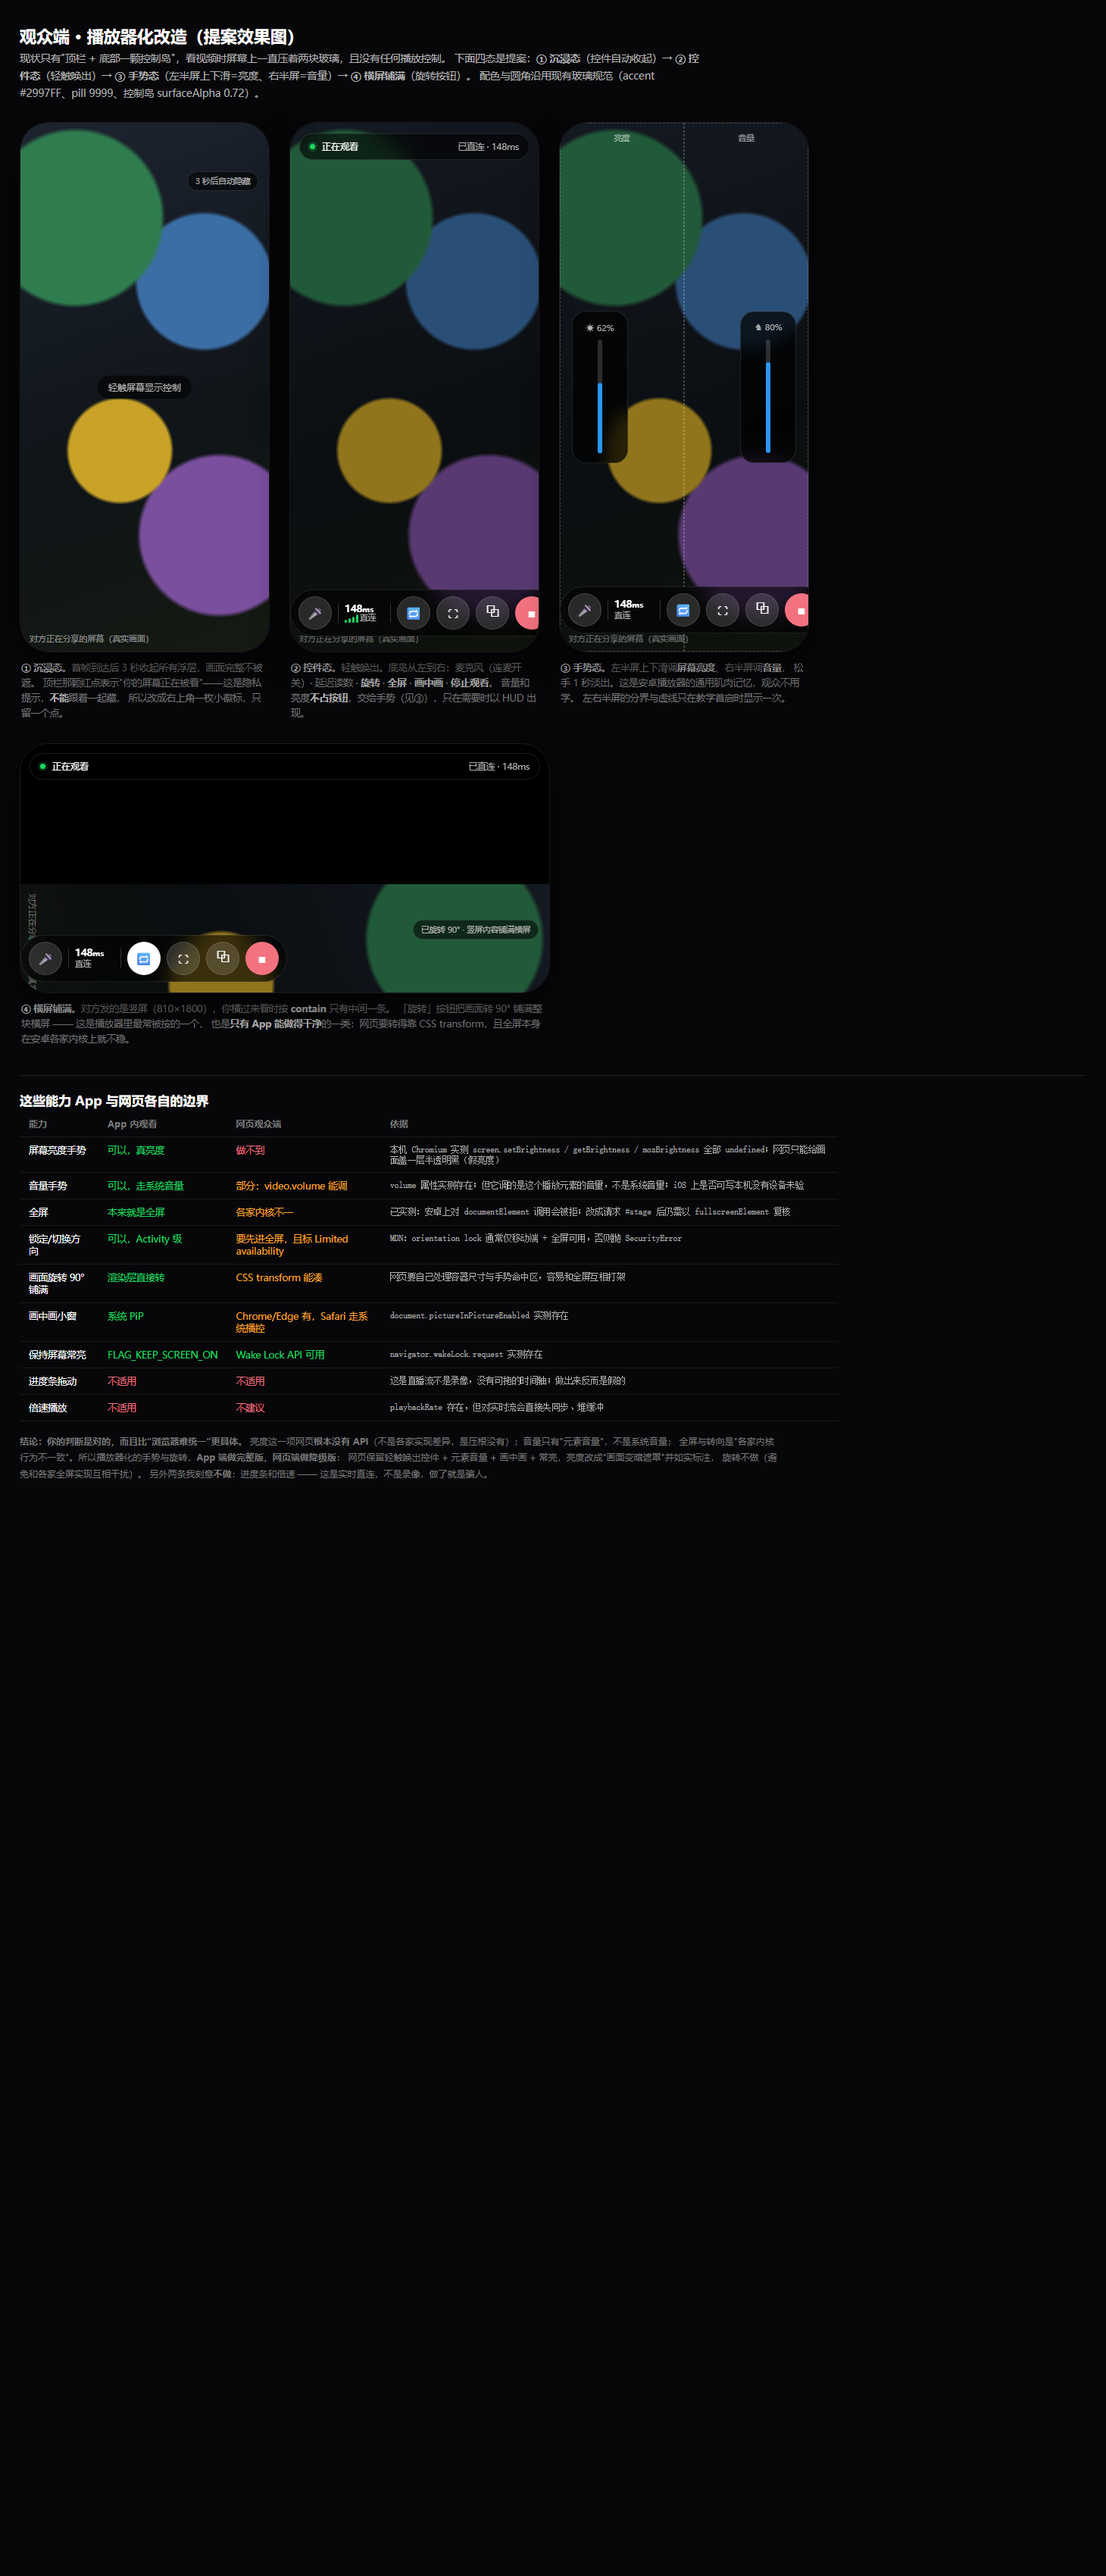
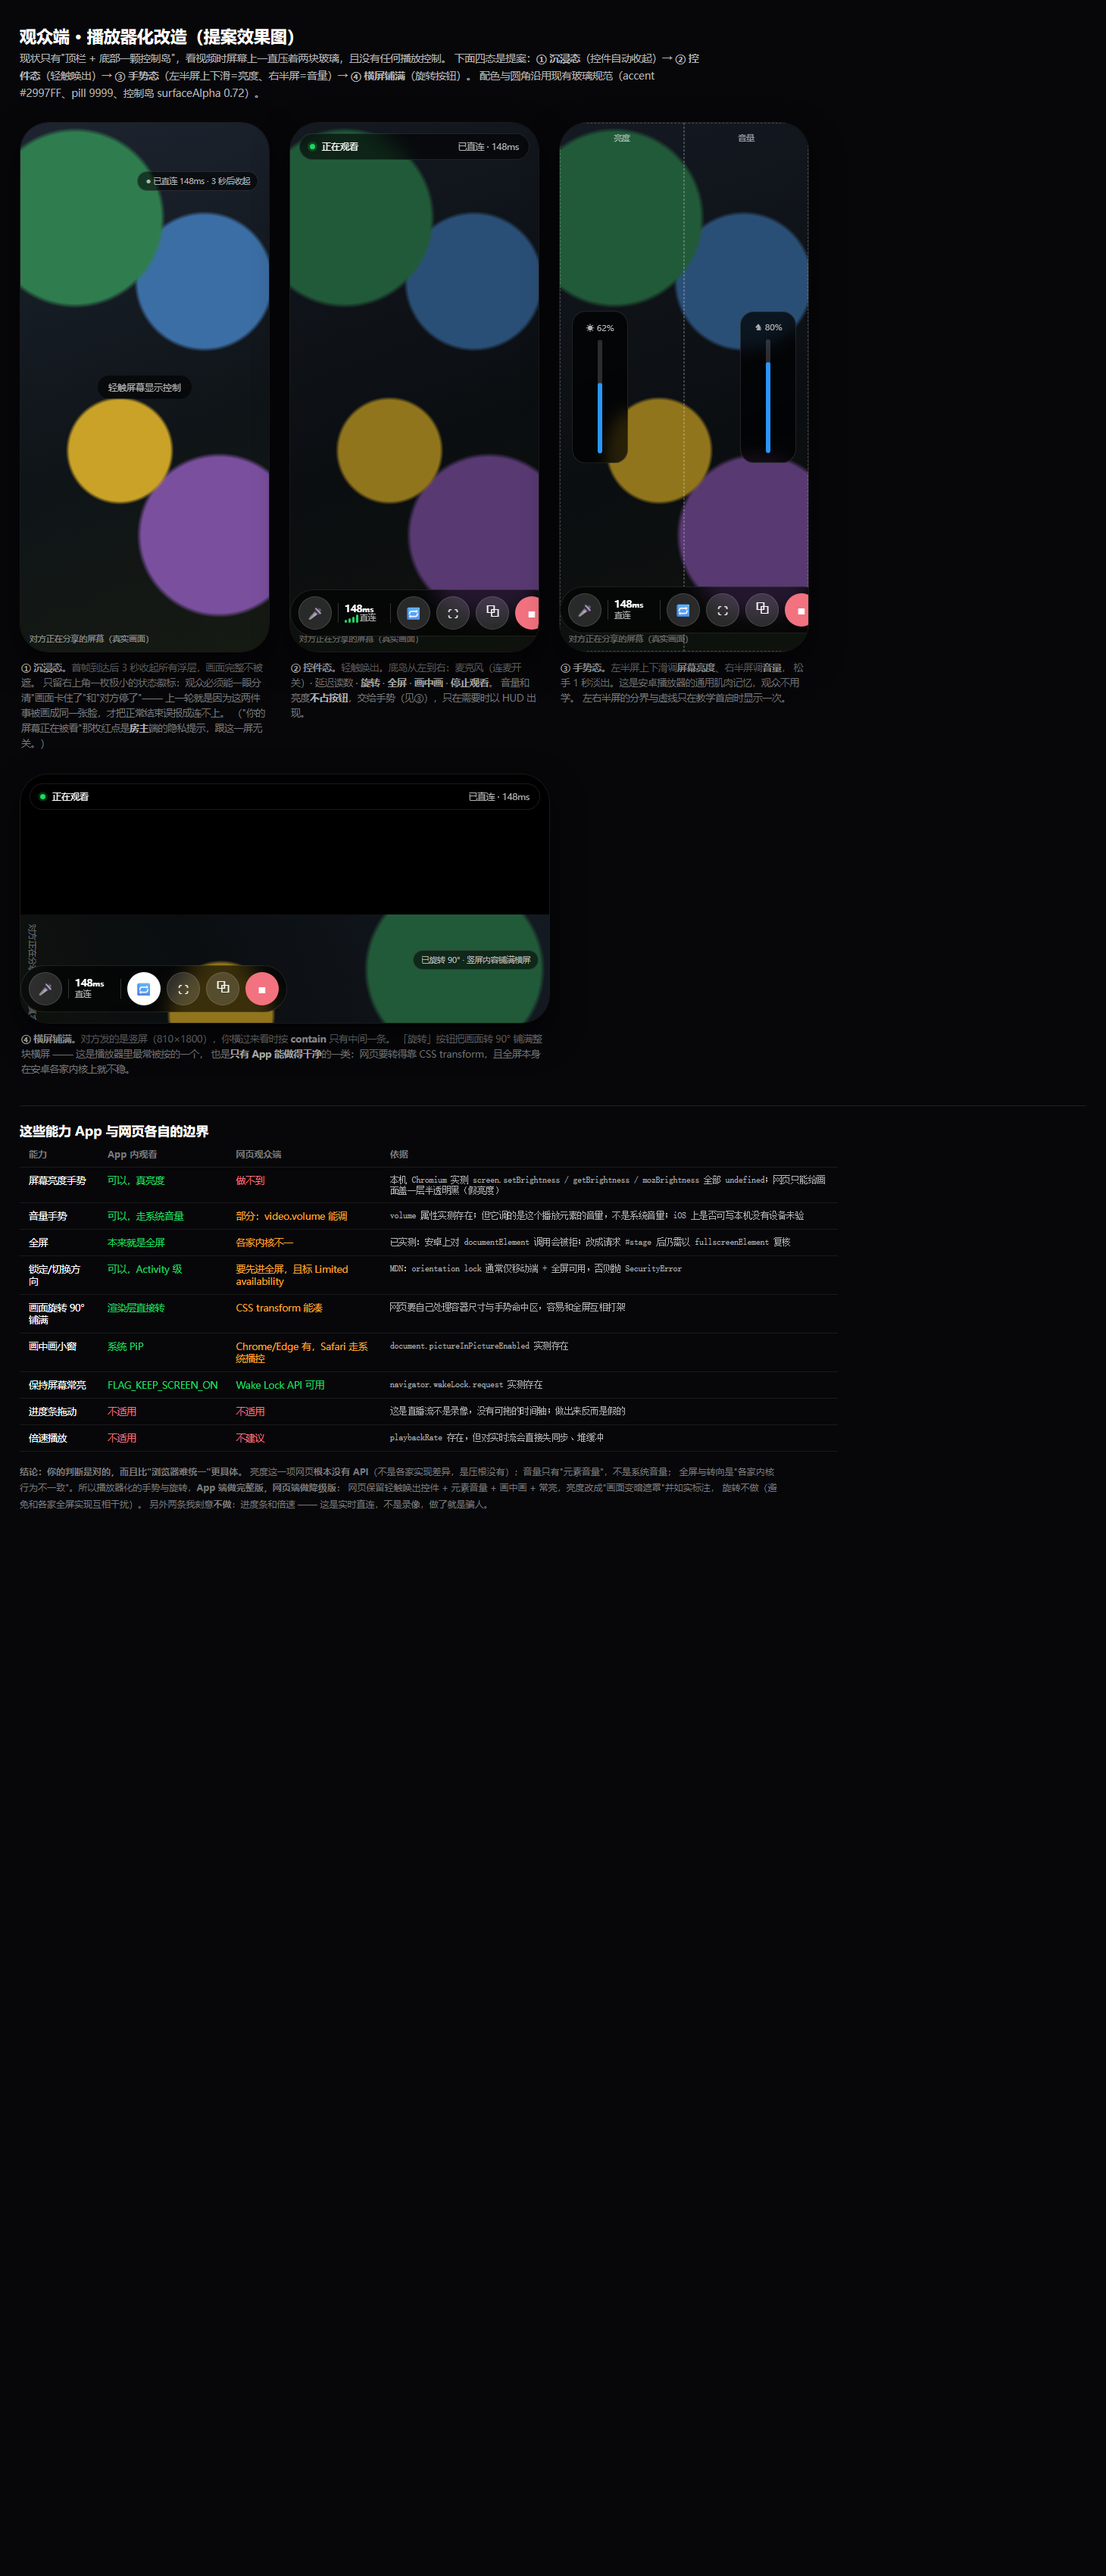
docs(mockup): 改掉效果图第①格串了主客语义的说明
原写顶栏那颗红点表示你的屏幕正在被看，不能跟着一起藏——那是**房主**端的隐私提示，
观众端顶栏是绿点正在观看，两者不是一回事，放在提案里会把评审带偏。
改成观众端真正需要留一枚状态徽标的理由：分清画面卡住和对方停了，
这正是上一轮误报的根源。徽标文案也跟着换成延迟读数。

diff --git a/docs/mockup/viewer-player.html b/docs/mockup/viewer-player.html
@@ -92,11 +92,12 @@ th{color:var(--text-low);font-weight:600;font-size:11.5px;letter-spacing:.04em}
     <div class="phone">
       <div class="video"></div>
       <div class="hint">轻触屏幕显示控制</div>
-      <div class="badge">3 秒后自动隐藏</div>
+      <div class="badge">● 已直连 148ms · 3 秒后收起</div>
     </div>
     <p class="cap"><b>① 沉浸态。</b>首帧到达后 3 秒收起所有浮层，画面完整不被遮。
-    顶栏那颗红点表示"你的屏幕正在被看"——这是隐私提示，<b>不能</b>跟着一起藏，
-    所以改成右上角一枚小徽标，只留一个点。</p>
+    只留右上角一枚极小的状态徽标：观众必须能一眼分清"画面卡住了"和"对方停了"——
+    上一轮就是因为这两件事被画成同一张脸，才把正常结束误报成连不上。
+    （"你的屏幕正在被看"那枚红点是<b>房主</b>端的隐私提示，跟这一屏无关。）</p>
   </div>
 
   <div class="cell">
